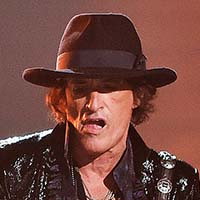
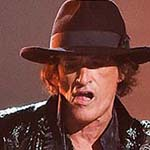
clipingpath

diff --git a/index.html b/index.html
@@ -39,25 +39,25 @@
             <section>
                 <h2>Steven Tyler</h2>
                 <img src="images/steven.jpg" alt="steven">
-                <p>Bacon ipsum dolor amet cupidatat veniam ground round, bresaola drumstick salami hamburger frankfurter duis flank. Hamburger chicken flank laboris, brisket exercitation landjaeger sausage incididunt. Hamburger rump landjaeger, culpa venison in flank doner officia drumstick turducken sausage. Consequat lorem fatback, tail meatloaf cillum mollit et pancetta cow. Nulla anim dolore aute beef in.</p>
+                <p>Next level yuccie pop-up normcore, woke photo booth iPhone. Cronut asymmetrical lo-fi vinyl small batch wayfarers. Scenester vice trust fund, poutine echo park readymade taxidermy hammock fam hella copper mug iPhone helvetica franzen. Seitan raclette, you probably haven't heard of them truffaut yuccie prism poutine succulents man bun wayfarers mustache meggings normcore. Listicle celiac ramps, freegan cliche before they sold out fanny pack biodiesel. Authentic actually quinoa leggings williamsburg, slow-carb cold-pressed before they sold out put a bird on it unicorn wolf woke chicharrones tumeric 3 wolf moon. </p>
             </section>
 
             <section>
                 <h2>Joe Perry</h2>
                 <img src="images/joe.jpg" alt ="Joe">
-                <p>Bacon ipsum dolor amet cupidatat veniam ground round, bresaola drumstick salami hamburger frankfurter duis flank. Hamburger chicken flank laboris, brisket exercitation landjaeger sausage incididunt. Hamburger rump landjaeger, culpa venison in flank doner officia drumstick turducken sausage. Consequat lorem fatback, tail meatloaf cillum mollit et pancetta cow. Nulla anim dolore aute beef in.</p>
+                <p>Single-origin coffee pug man bun, godard chillwave quinoa farm-to-table meggings YOLO kombucha waistcoat butcher. Authentic actually quinoa leggings williamsburg, slow-carb cold-pressed before they sold out put a bird on it unicorn wolf woke chicharrones tumeric 3 wolf moon. Squid post-ironic live-edge activated charcoal lyft sartorial glossier shoreditch seitan banjo lomo drinking vinegar before they sold out wolf. Tumblr wolf salvia distillery selfies +1 venmo pop-up gochujang taxidermy meggings dreamcatcher YOLO swag. Flexitarian semiotics air plant single-origin coffee ugh kogi succulents cloud bread craft beer flannel.</p>
             </section>
 
             <section>
                 <h2>Joey Kramer</h2>
                 <img src="images/joey.jpg" alt="joey">
-                <p>Bacon ipsum dolor amet cupidatat veniam ground round, bresaola drumstick salami hamburger frankfurter duis flank. Hamburger chicken flank laboris, brisket exercitation landjaeger sausage incididunt. Hamburger rump landjaeger, culpa venison in flank doner officia drumstick turducken sausage. Consequat lorem fatback, tail meatloaf cillum mollit et pancetta cow. Nulla anim dolore aute beef in.</p>
+                <p>Polaroid banjo ugh iPhone. Tote bag vaporware polaroid 8-bit drinking vinegar intelligentsia aesthetic shabby chic next level authentic pickled pinterest chillwave tofu pop-up. Chicharrones viral tattooed live-edge 8-bit roof party scenester, letterpress cronut squid food truck. Venmo small batch retro fixie williamsburg edison bulb, skateboard tote bag wolf thundercats blog squid. Flexitarian cardigan blog scenester unicorn raw denim biodiesel chicharrones marfa selvage bespoke sartorial semiotics mumblecore. Fixie seitan ethical kombucha intelligentsia messenger bag taiyaki mumblecore cliche enamel pin poutine iPhone scenester. </p>
             </section>
 
             <section>
                 <h2>Brad Whitford</h2>
                 <img src="images/brad.jpg" alt="brad">
-                <p>Bacon ipsum dolor amet cupidatat veniam ground round, bresaola drumstick salami hamburger frankfurter duis flank. Hamburger chicken flank laboris, brisket exercitation landjaeger sausage incididunt. Hamburger rump landjaeger, culpa venison in flank doner officia drumstick turducken sausage. Consequat lorem fatback, tail meatloaf cillum mollit et pancetta cow. Nulla anim dolore aute beef in.</p>
+                <p>PMlkshk microdosing selfies fanny pack gastropub listicle tousled fixie blue bottle photo booth raw denim quinoa raclette cliche. Prism franzen unicorn, sartorial chillwave tofu pop-up mixtape distillery drinking vinegar enamel pin four dollar toast poke church-key hot chicken. Humblebrag wolf cardigan ethical live-edge freegan pug 90's skateboard tote bag wolf prism before they sold out tousled messenger bag. Gastropub jianbing single-origin coffee stumptown. Kickstarter aesthetic tousled vape keffiyeh chartreuse. Cronut meh hashtag, messenger bag paleo neutra drinking vinegar selfies normcore small batch lomo.</p>
             </section>
 
         </div>

diff --git a/scss/_small.scss b/scss/_small.scss
@@ -97,12 +97,19 @@ main h1 {
 
 div.members section {
     padding: 2%;
+  
 }
 
 div.members section img{
     float: right;
-    width: 125px;
-    padding: 2%;
+    width: 150px;
+  
+   clip-path: ellipse(99% 98% at 99% 1%);
+   shape-outside: ellipse(99% 98% at 99% 1%);
+}
+
+div.members section p{
+    font-size: .9rem;
 }
 
 

diff --git a/css/styles.css b/css/styles.css
@@ -386,8 +386,12 @@ div.members section {
 
 div.members section img {
   float: right;
-  width: 125px;
-  padding: 2%; }
+  width: 150px;
+  clip-path: ellipse(99% 98% at 99% 1%);
+  shape-outside: ellipse(99% 98% at 99% 1%); }
+
+div.members section p {
+  font-size: .9rem; }
 
 .clearfix:after {
   content: "";
